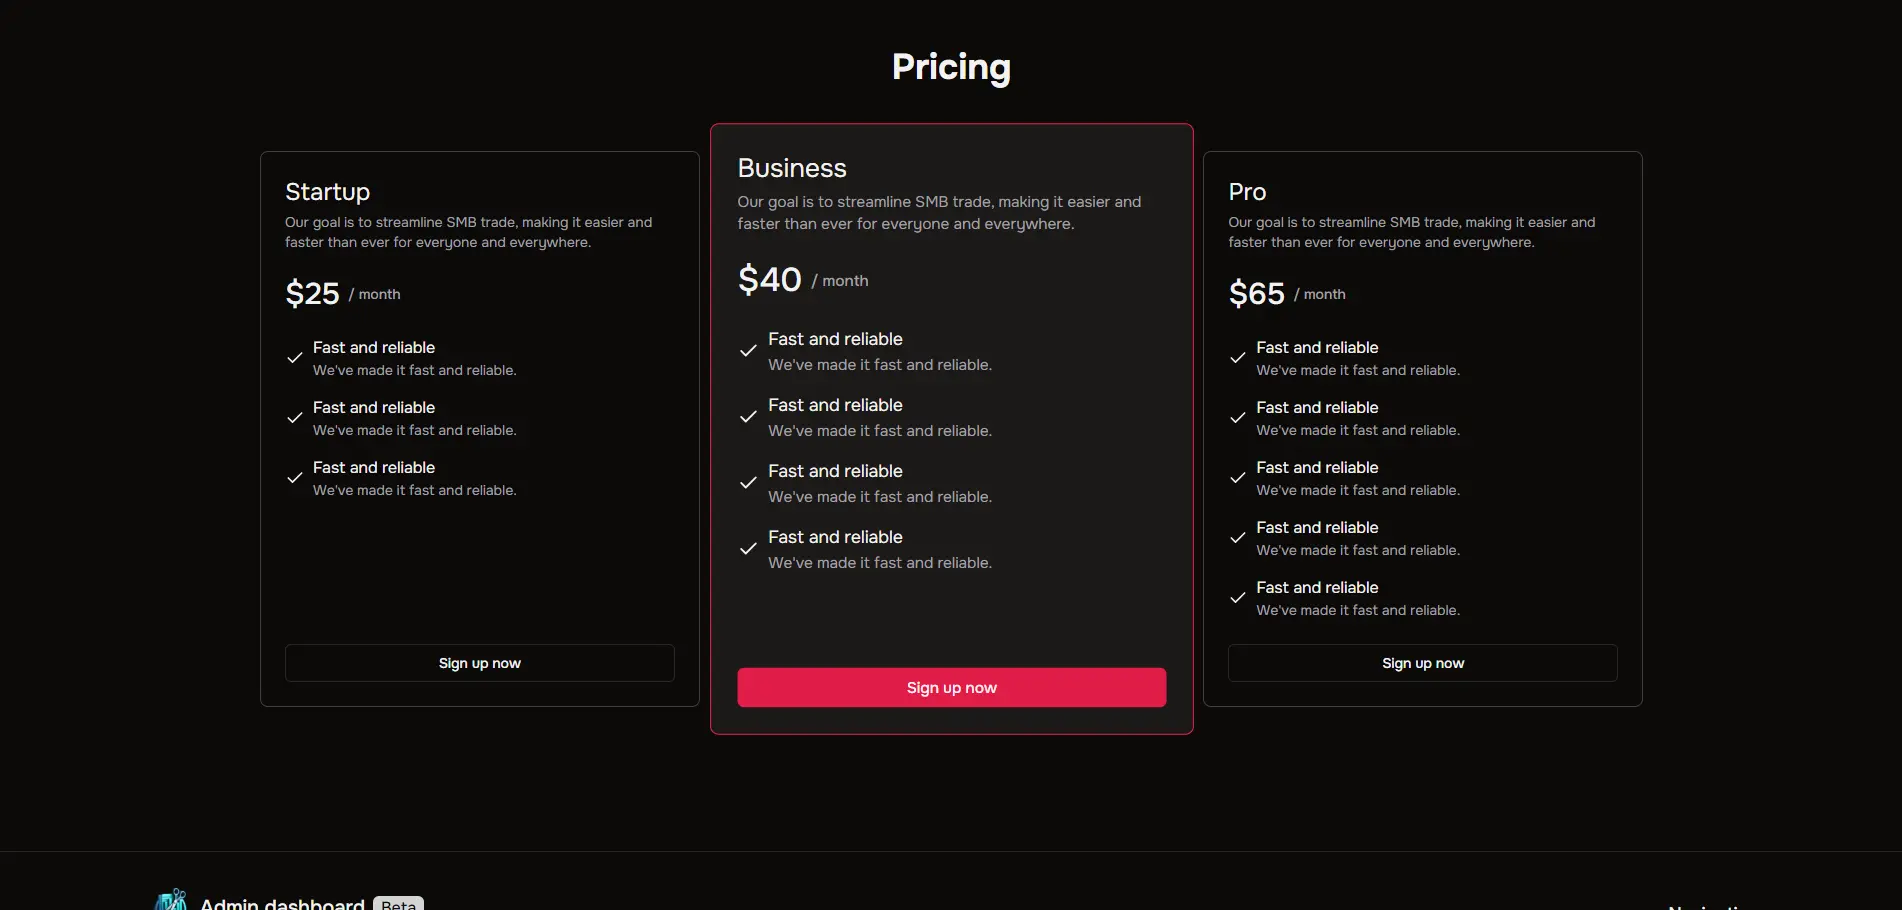
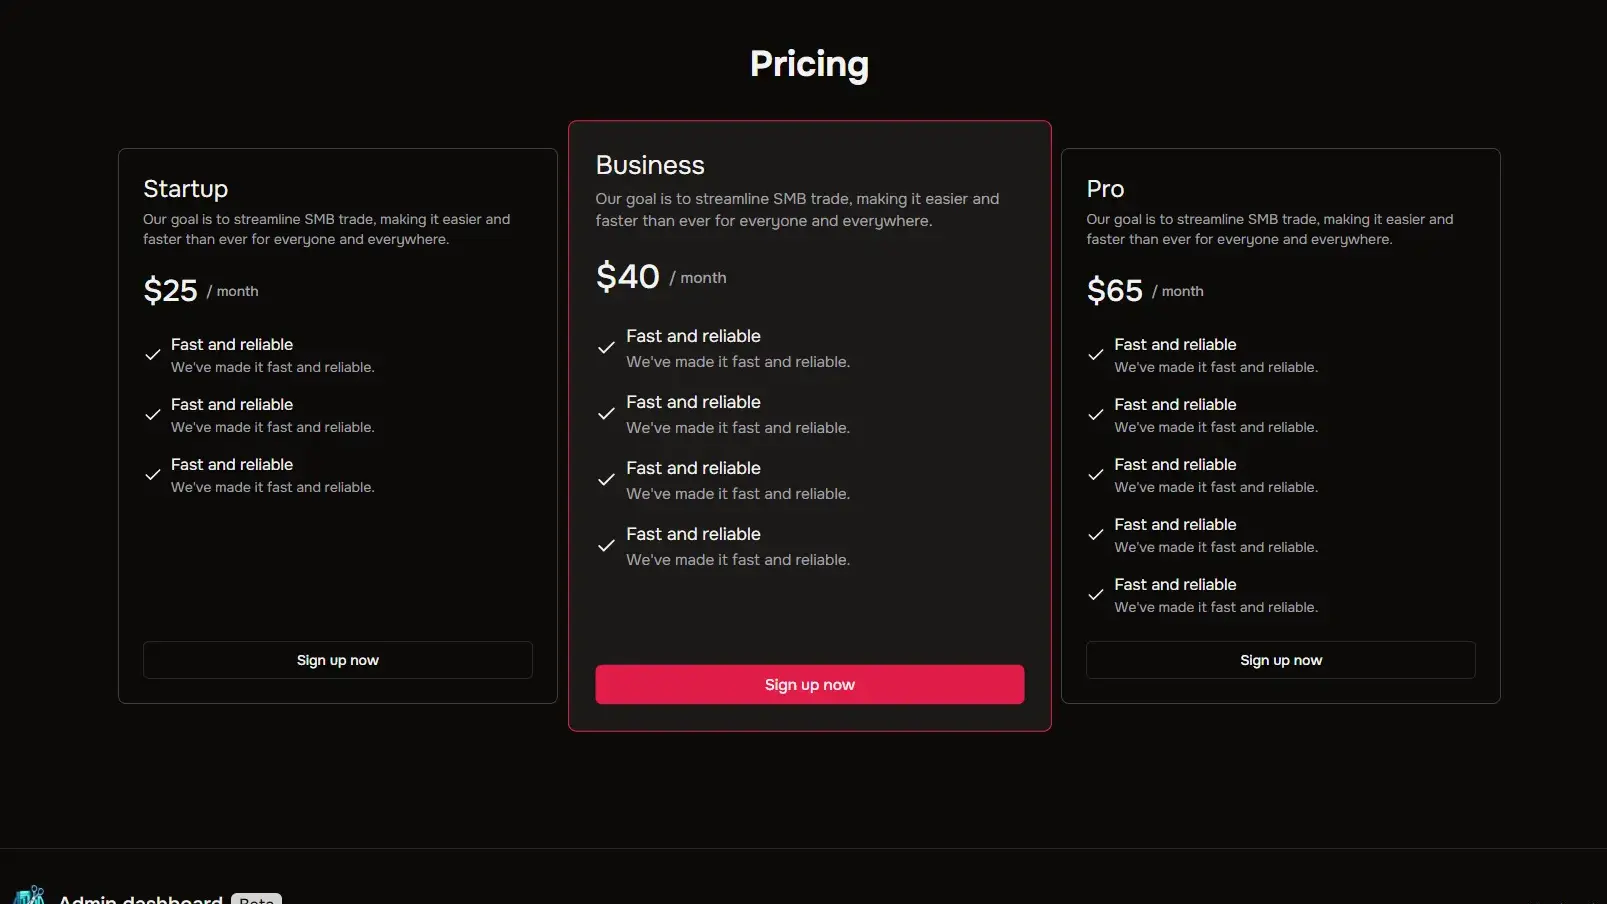
refactor: adjust all screenshots to fit the same size

diff --git a/src/components/template-card.tsx b/src/components/template-card.tsx
@@ -32,26 +32,26 @@ export default function TemplateCard({ template }: { template: Template }) {
           </p>
         </div>
 
-        <div className="flex w-fit gap-8 overflow-x-auto [scrollbar-color:#888_transparent;] [scrollbar-width:thin]">
+        <div className="flex w-fit gap-6 overflow-x-auto [scrollbar-color:#888_transparent;] [scrollbar-width:thin]">
           <Image
             src={one}
             alt="Screenshot one"
-            width={703}
-            height={421.2}
+            width={1607}
+            height={904}
             className="h-auto w-full rounded-xl md:h-full md:w-auto"
           />
           <Image
             src={two}
             alt="Screenshot two"
-            width={293.84}
-            height={176}
+            width={1607}
+            height={904}
             className="hidden h-full w-auto rounded-xl md:block"
           />
           <Image
             src={three}
             alt="Screenshot three"
-            width={293.84}
-            height={176}
+            width={1607}
+            height={904}
             className="hidden h-full w-auto rounded-xl md:block"
           />
         </div>
